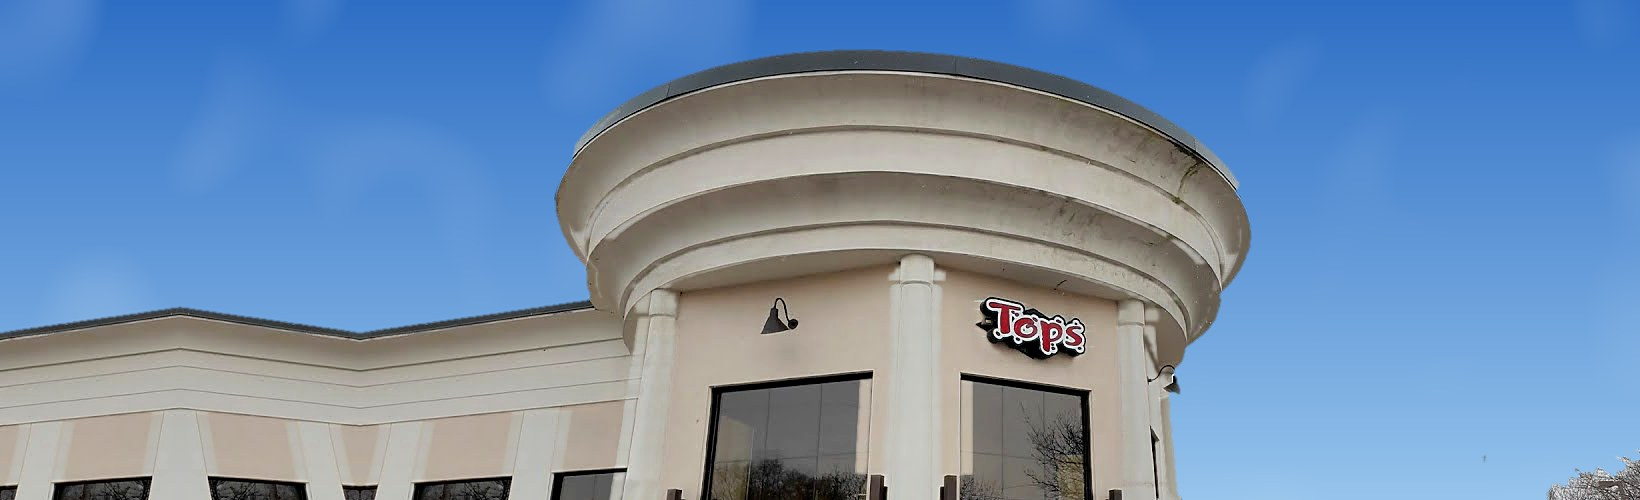
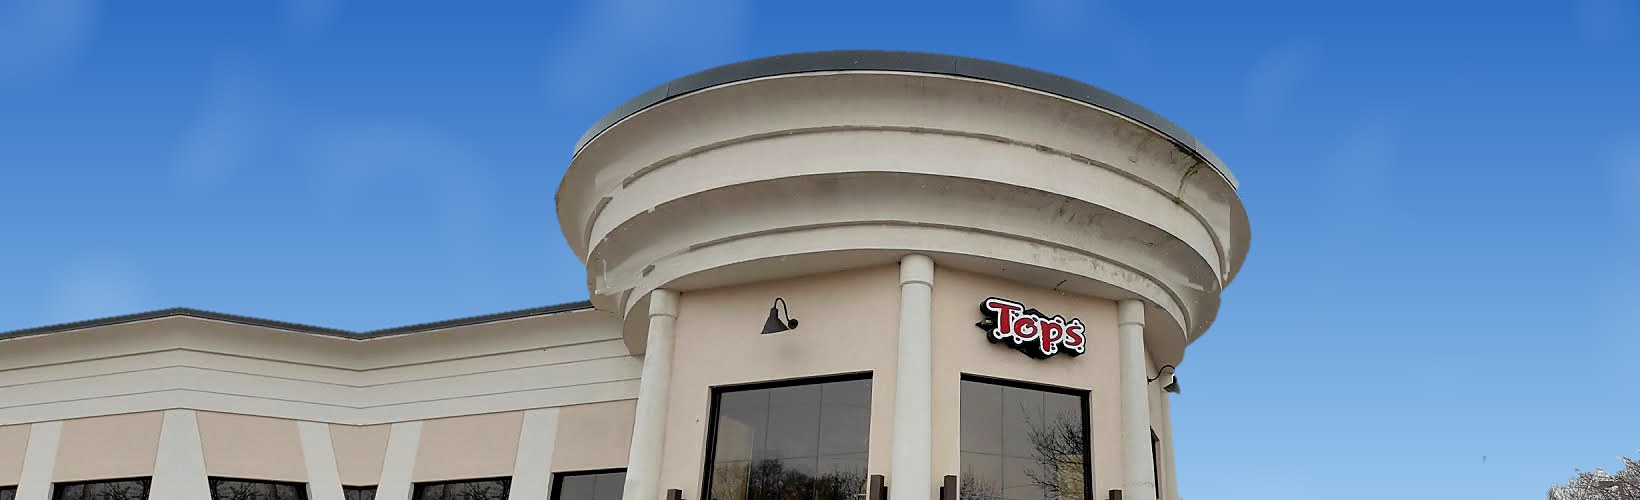
Add Contact section and clean up building photo
Contact section with phone, Facebook Messenger, party and bakery orders,
and job application. Building photo stucco stains lightened along the
rotunda bands.

diff --git a/index.html b/index.html
@@ -355,6 +355,8 @@ p { margin: 0; }
 .socials a { text-decoration: none; font-weight: 600; font-size: .92rem; border: 1px solid var(--line); padding: 8px 14px; border-radius: 999px; }
 .socials a:hover { border-color: var(--ink); }
 @media (max-width: 900px) { .visit { grid-template-columns: 1fr; } }
+.contact { display: grid; grid-template-columns: repeat(2, 1fr); gap: 24px; }
+@media (max-width: 760px) { .contact { grid-template-columns: 1fr; } }
 
 /* Footer */
 footer { background: var(--trim); color: var(--on-trim); }
@@ -388,6 +390,7 @@ footer .fl { display: flex; flex-wrap: wrap; gap: 18px; }
       <a href="#story">Our Story</a>
       <a href="#events">Parties</a>
       <a href="#visit">Visit</a>
+      <a href="#contact">Contact</a>
     </nav>
     <a class="btn btn-red" href="#order">Order online</a>
   </div>
@@ -649,7 +652,44 @@ footer .fl { display: flex; flex-wrap: wrap; gap: 18px; }
             <a href="https://www.instagram.com/topsrotterdam">Instagram</a>
             <a href="https://twitter.com/topsrotterdam">X</a>
           </div>
-          <p>Now hiring. <a class="more" href="http://topsrotterdam.com/wp-content/uploads/2017/10/Employment-Application.pdf">Job application →</a></p>
+        </div>
+      </div>
+    </div>
+  </section>
+
+  <div class="cornice" aria-hidden="true"></div>
+
+  <section class="section" id="contact">
+    <div class="wrap">
+      <div class="sec-head">
+        <span class="label">Contact</span>
+        <h2>Questions, parties or a big order? Get in touch.</h2>
+        <p>Calling is the fastest way to reach us during business hours.</p>
+      </div>
+      <div class="contact">
+        <div class="panel">
+          <span class="label">Call the restaurant</span>
+          <p class="big" id="phone-2">(518) 355-9864</p>
+          <p>Takeout, today's hours, reservations for large groups and same-day questions.</p>
+          <button class="copy" id="copy-phone-2" type="button">Copy number</button>
+        </div>
+        <div class="panel">
+          <span class="label">Send a message</span>
+          <p class="big">Message us on Facebook.</p>
+          <p>Good for questions that can wait a little, like gift ideas or menu details.</p>
+          <a class="more" href="https://m.me/TopsRotterdam">Open Messenger →</a>
+        </div>
+        <div class="panel">
+          <span class="label">Parties &amp; bakery orders</span>
+          <p class="big">Book the back room or order a cake.</p>
+          <p>Call and ask for a manager. Tell us the date, the size of your group and what you're celebrating.</p>
+          <a class="more" href="#events">About private parties →</a>
+        </div>
+        <div class="panel">
+          <span class="label">Work at Tops</span>
+          <p class="big">We're hiring.</p>
+          <p>Fill out the application and bring it in, or drop by and ask for one at the register.</p>
+          <a class="more" href="http://topsrotterdam.com/wp-content/uploads/2017/10/Employment-Application.pdf">Job application (PDF) →</a>
         </div>
       </div>
     </div>
@@ -660,7 +700,7 @@ footer .fl { display: flex; flex-wrap: wrap; gap: 18px; }
   <div class="wrap">
     <a class="logo" href="#home"><img src="images/logo.jpg" alt="Tops" width="200" height="125"></a>
     <div class="fl">
-      <a href="#menu">Menu</a><a href="#bakery">Bakery</a><a href="#gallery">Gallery</a><a href="#story">Our Story</a><a href="#visit">Visit</a>
+      <a href="#menu">Menu</a><a href="#bakery">Bakery</a><a href="#gallery">Gallery</a><a href="#story">Our Story</a><a href="#visit">Visit</a><a href="#contact">Contact</a>
     </div>
     <span>© Tops American Grill, Bakery &amp; Bar · Rotterdam, NY</span>
   </div>
@@ -955,9 +995,10 @@ footer .fl { display: flex; flex-wrap: wrap; gap: 18px; }
     })();
   })();
 
-  // Copy phone
-  document.getElementById('copy-phone').addEventListener('click', function (e) {
-    var btn = e.currentTarget, phone = document.getElementById('phone');
+  // Copy phone (Visit and Contact panels)
+  [['copy-phone', 'phone'], ['copy-phone-2', 'phone-2']].forEach(function (pair) {
+  document.getElementById(pair[0]).addEventListener('click', function (e) {
+    var btn = e.currentTarget, phone = document.getElementById(pair[1]);
     function selectPhone() {
       var r = document.createRange(); r.selectNodeContents(phone);
       var s = window.getSelection(); s.removeAllRanges(); s.addRange(r);
@@ -969,6 +1010,7 @@ footer .fl { display: flex; flex-wrap: wrap; gap: 18px; }
         setTimeout(function () { btn.textContent = 'Copy number'; }, 1800);
       }, selectPhone);
     } catch (err) { selectPhone(); }
+  });
   });
 </script>
 
